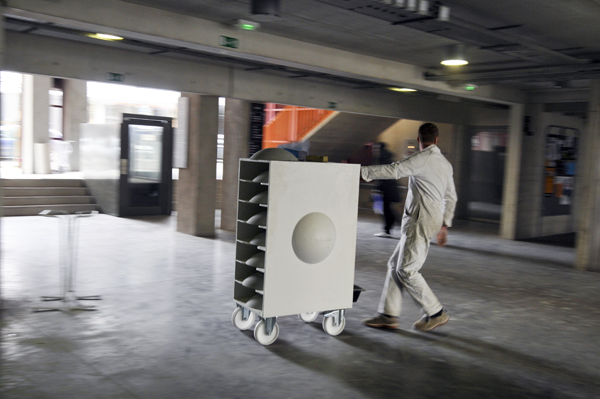
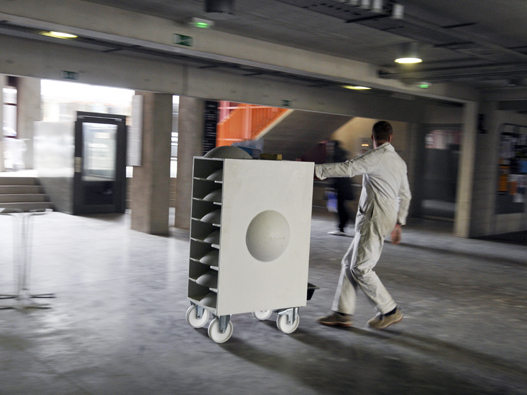
Placé les éléments du header en fixed et absolute. Changé trois photos restées en 15 10. Ajouté une background image effet canson. Supprimé l’effet de focus par défaut, ai mis l’effet hover à la place

diff --git a/css/gloshmol_index.css b/css/gloshmol_index.css
@@ -29,6 +29,7 @@ body
 {
     color: black;
     font-family: 'muliextralight';
+    background-image: url("../images/PatternsNav.jpg");
 }
 
 html
@@ -39,26 +40,23 @@ html
 /* Header */
 header
 {
-    display: flex;
-    justify-content: space-between;
-    margin-right: 20px;
     min-height: 100px;
-    padding-top: 20px;
 }
 
 header a
 {
     text-decoration: none;
     color: black;
-
 }
 
 #logo 
 {
-    margin-left: 20px;
-    margin-top: 10px;
+    position: fixed;
+    left: 50px;
+    top: 30px;
     font-size: 1.4em;
     min-width: 200px;
+    z-index: 1;
 }
 
 #logo a
@@ -66,39 +64,49 @@ header a
     color: rgba(253,0,141,0.8);
 }
 
-/* Nav */
-
-#nav ul
+#logo a:focus
 {
-    list-style-type: none;
-    display: flex;
-    margin: 0px;
+    outline: 0;
 }
 
-#nav 
+/* Nav */
+nav 
 {
+    position: absolute;
+    top: 30px;
+    right: 50px;
     display: flex;
     flex-direction: column;
     justify-content: flex-start;
     max-height: 70px;
 }
 
-#nav li 
+nav ul
+{
+    list-style-type: none;
+    display: flex;
+    margin: 0px;
+}
+
+
+
+nav li 
 {
     margin-right: 25px;
     margin-top: 5px;
 }
 
-#nav .menuPrincipal a
+nav .menuPrincipal a
 {
     font-weight: normal;
     font-size: 1em;
 }
 
-#nav a:hover
+nav a:hover, nav a:focus
 {
     color:rgba(253,0,141,0.5); /*color: rgb(253,0,141);*/
     text-decoration: none;
+    outline: 0;
 }
 
 #filtres, #aPropos
@@ -131,27 +139,13 @@ header a
     font-size: 0.7em;
 }
 
-#filtres a:hover
+#filtres a:hover, #aPropos a:hover, #filtres a:focus, #aPropos a:focus
 {
     color:rgba(253,0,141,0.5);
+    outline: 0;
 }
 
-.menuPrincipal
-{
-
-}
-
-.menuRealisations
-{
-   
-}
-
-/*.menuRealisations:hover .filtres
-{
-    display: inline-block;
-}*/
-
-@media all and (max-width: 1024px)
+@media all and (max-width: 900px)
 {
     
 }

diff --git a/html/gloshmol_index.html b/html/gloshmol_index.html
@@ -11,8 +11,8 @@
 <body>
     <!--<div id="bloc_page"> -->
         <header>
-            <div id="logo"><a href="www.gloshmol_index.html">-:-:-:-gloshmol-:-:-:-</a></div>
-            <div id="nav">
+            <div id="logo"><a href="#">-:-:-:-gloshmol-:-:-:-</a></div>
+            <nav>
                 <ul id="menuPrincipal">
                     <li><div id="menuRealisations"><a href="#">Réalisations</a></div></li>
                     <li><a href="#">Imagier</a></li>
@@ -38,7 +38,7 @@
                         <li><a href="#">Conférences</a></li>
                     </ul>
                 </div>
-            </div>
+            </nav>
             
         </header>
 
@@ -49,7 +49,7 @@
                     <img src="../images/dessins_erotiques-couv-w.jpg" alt="Dessins érotiques"/>
                     <div class="texteRealisation">
                         <p class="titre">Dessins érotiques</p>
-                        <p class="motCle"><span>Dessin -:- </span><span>Livret</p>
+                        <p class="motCle"><span>Dessin / </span><span>Livret</p>
                         <p class="annee">2013</p>
                     </div>
                 </div>
@@ -58,7 +58,7 @@
                     <img src="../images/Gonesse-grade_rose-w.jpg" alt="Dégradé rose"/>
                     <div class="texteRealisation">
                         <p class="titre"><strong>Biennale de Gonesse</strong></p>
-                        <p class="motCle"><span>Exposition -:- </span><span>Installation -:- </span>Livret<span></p>
+                        <p class="motCle"><span>Exposition / </span><span>Installation / </span>Livret<span></p>
                         <p class="annee">2014</p>
                     </div>
                 </div>
